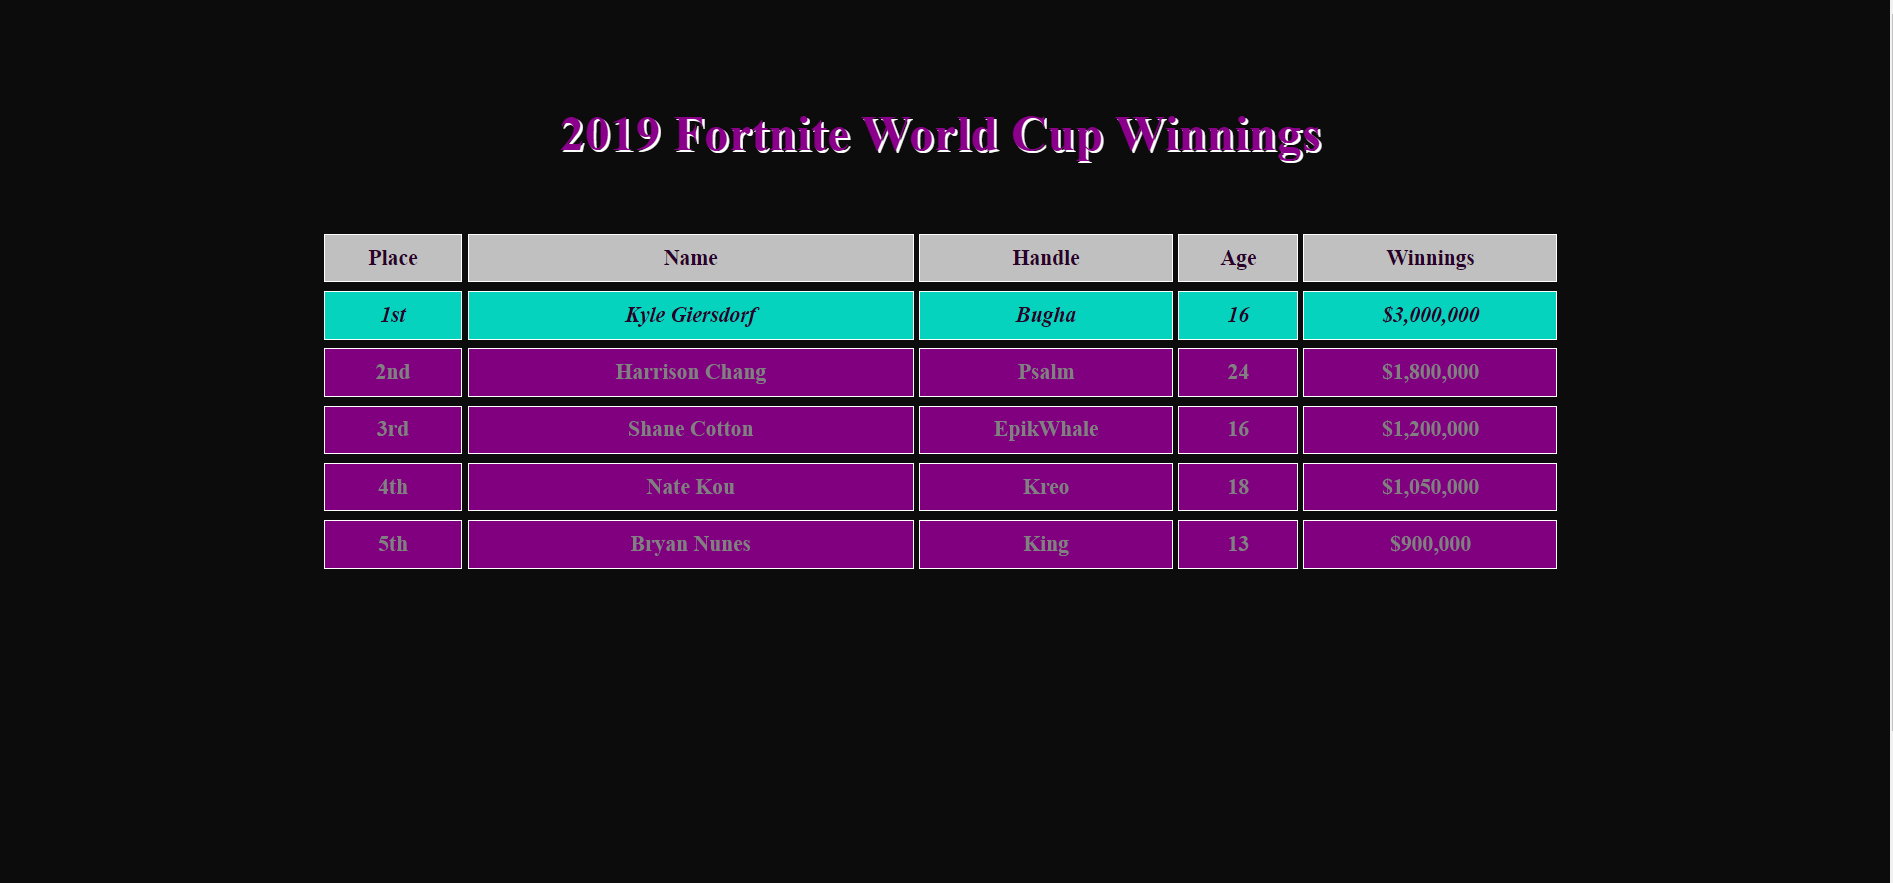
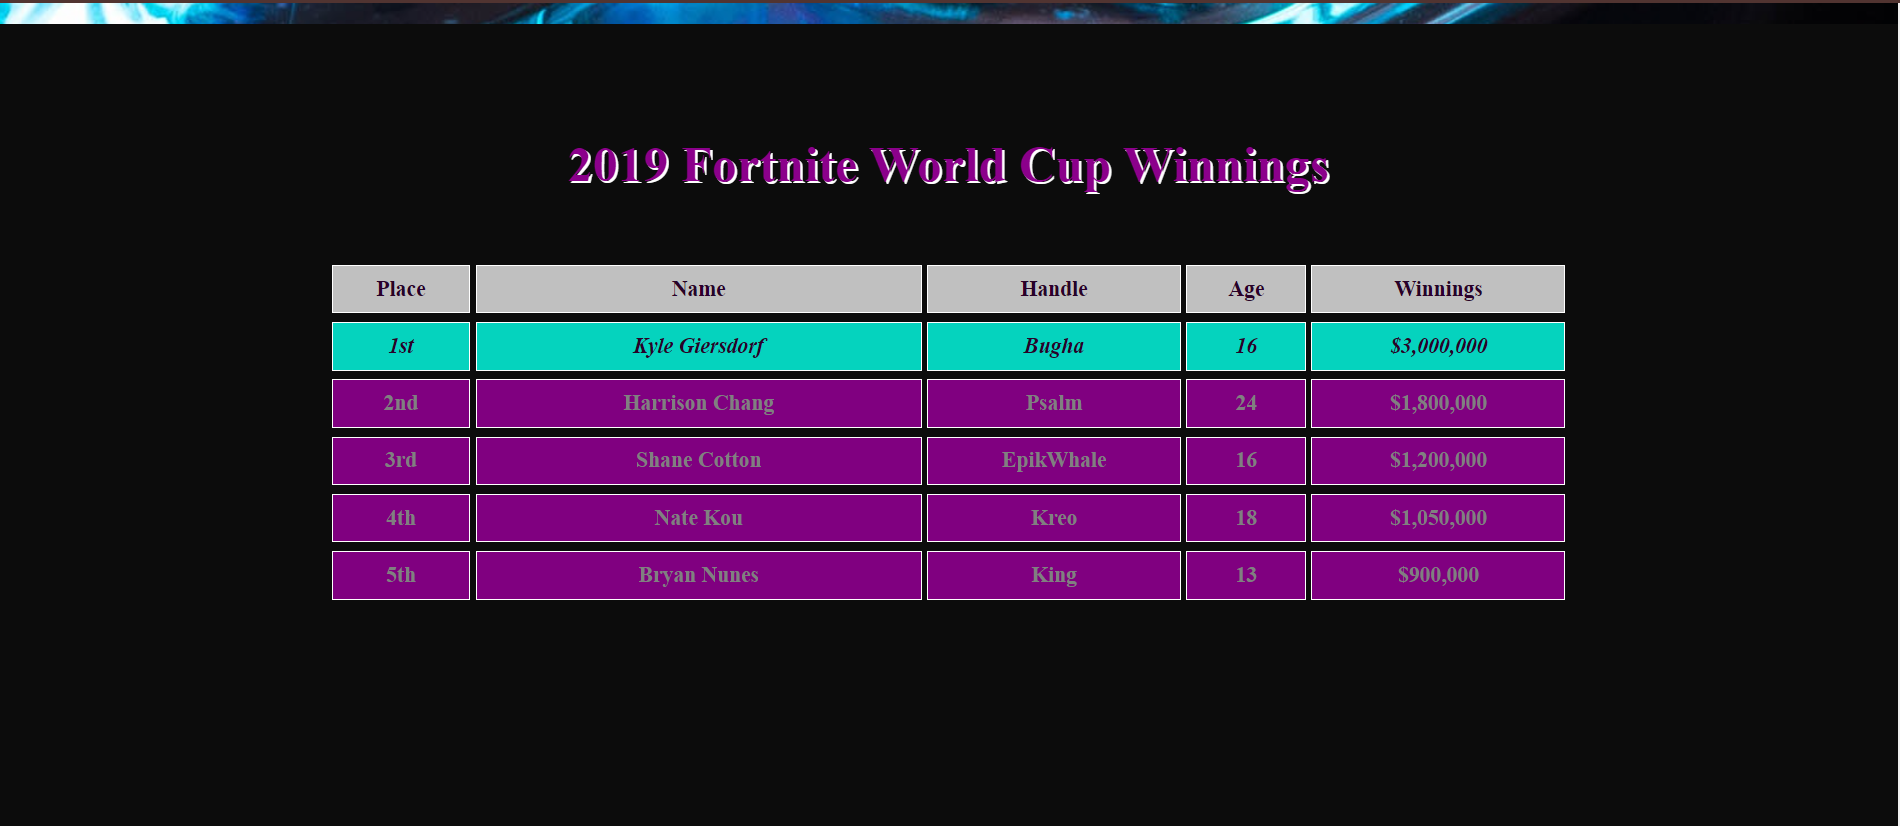
updated css

Changed region(s): [[0.1558, 0.1211, 0.8415, 0.7264], [0.0, 0.0, 1.0, 1.0]]

diff --git a/assets/css/style-example-1_txtbdrbkgrnd.css b/assets/css/style-example-1_txtbdrbkgrnd.css
@@ -1,9 +1,10 @@
 
 html, body{
-  margin: 0; /* Clear inherited margin. */
-  padding: 0; /* Clear inherited padding. */ 
-  /* Add more styles here. See Lab instructions.  */
-
+  margin: 0;
+  padding: 0;
+  font-family: Segoe UI', Tahoma, Geneva, Verdana, sans-serif';
+  background: rgb(12, 12, 12);
+  color: gray;
 }
 
 /* Clear inherited element styles. */
@@ -19,7 +20,7 @@ body {
   background-image: url("/assets/images/pexels-suludan-diliyaer-596750.jpg");
   background-repeat: no-repeat;
   background-position: center;
-  background-size: cover;
+  background-size: auto;
 }
 
 h1 {  

diff --git a/css_text_borders_backgrounds.html b/css_text_borders_backgrounds.html
@@ -14,11 +14,12 @@
 
 <body>
             <!-- Navigation -->
-            <div class="nav">
+            <!-- <div class="nav">
                 <ul>
                    <li><a href="./index.html">Index</li>
-                </ul>
-            </div>
+                </ul> -->
+                
+            </div><br>
     <h1>2019 Fortnite World Cup Winnings</h1>
     <div class="outer">
         <div class="titles">
